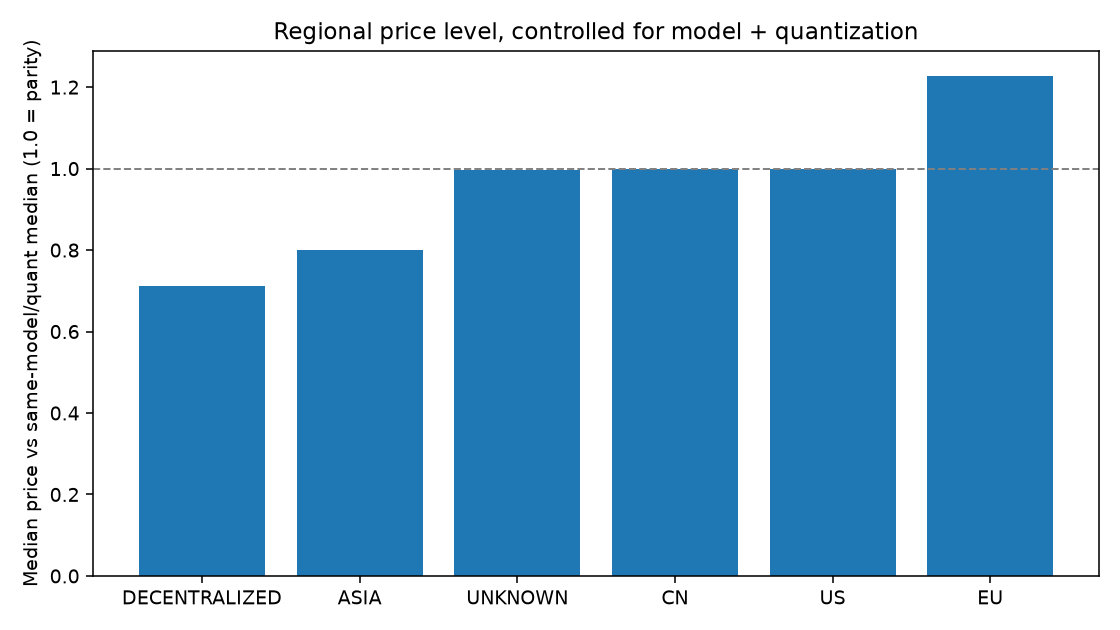
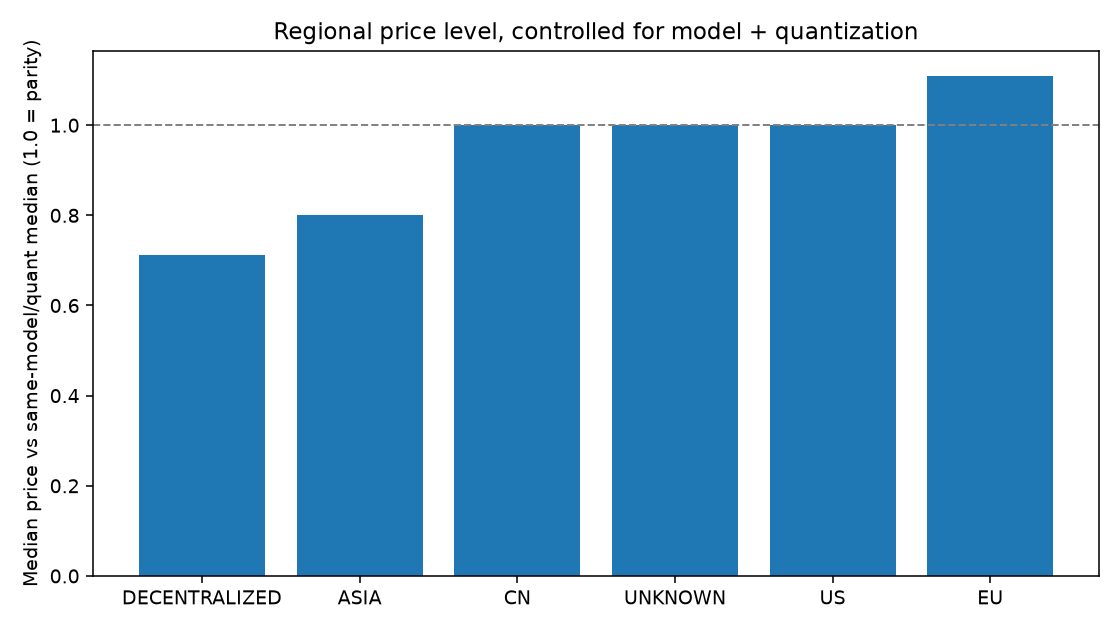
token-price-update

diff --git a/TOKEN_PRICE_SUMMARY.md b/TOKEN_PRICE_SUMMARY.md
@@ -1,5 +1,5 @@
 # Token Price Tracker — Summary
-_Last updated: 2026-11-03 23:20 UTC · latest snapshot: 2026-11-03 23:20:41 · 368 snapshots since 2026-07-21_
+_Last updated: 2026-11-04 06:16 UTC · latest snapshot: 2026-11-04 06:16:52 · 369 snapshots since 2026-07-21_
 
 ## Latest market cost per model (cheapest-3 avg, blended 3:1)
 
@@ -9,16 +9,16 @@ _Last updated: 2026-11-03 23:20 UTC · latest snapshot: 2026-11-03 23:20:41 · 3
 | anthropic/claude-opus-4.8 | closed | $10.00 | Claude Platform on AWS ($10.00) | 11 |
 | anthropic/claude-sonnet-4.6 | closed | $6.00 | Claude Platform on AWS ($6.00) | 9 |
 | deepseek/deepseek-v4-flash | open | $0.11 | StreamLake ($0.10) | 16 |
-| deepseek/deepseek-v4-pro | open | $1.08 | Relace ($1.05) | 15 |
+| deepseek/deepseek-v4-pro | open | $1.15 | Relace ($1.05) | 15 |
 | minimax/minimax-m3 | open | $0.41 | DeepInfra ($0.39) | 13 |
 | moonshotai/kimi-k2.5 | open | $1.04 | AtlasCloud ($0.99) | 5 |
-| moonshotai/kimi-k2.6 | open | $0.82 | Baidu ($0.70) | 17 |
-| moonshotai/kimi-k3 | open | $2.70 | Wafer ($2.61) | 30 |
+| moonshotai/kimi-k2.6 | open | $0.95 | Chutes ($0.74) | 17 |
+| moonshotai/kimi-k3 | open | $2.91 | Relace ($2.38) | 30 |
 | openai/gpt-5.5 | closed | $9.38 | OpenAI ($5.62) | 7 |
 | openai/gpt-5.6-sol | closed | $6.67 | OpenAI ($4.00) | 8 |
-| z-ai/glm-5.2 | open | $0.66 | Morph ($0.42) | 33 |
+| z-ai/glm-5.2 | open | $0.68 | Morph ($0.47) | 33 |
 
-**Closed/open price multiple right now: 6.5x** (closed median $10.00 vs open $1.53)
+**Closed/open price multiple right now: 5.8x** (closed median $10.00 vs open $1.71)
 
 ## Regional comparison (open models, same model+quant only)
 
@@ -26,10 +26,10 @@ _Last updated: 2026-11-03 23:20 UTC · latest snapshot: 2026-11-03 23:20:41 · 3
 |---|---|---|---|
 | DECENTRALIZED | 2 | 0.71 | $2.25 |
 | ASIA | 5 | 0.80 | $1.20 |
-| UNKNOWN | 59 | 1.00 | $1.52 |
 | CN | 20 | 1.00 | $1.51 |
+| UNKNOWN | 59 | 1.00 | $1.71 |
 | US | 33 | 1.00 | $2.15 |
-| EU | 2 | 1.23 | $2.17 |
+| EU | 2 | 1.11 | $2.17 |
 
 _Caveat: this measures offer **price**, not underlying cost; regional gaps can reflect margin strategy, subsidies, or capacity, not just electricity and hardware costs._
 
